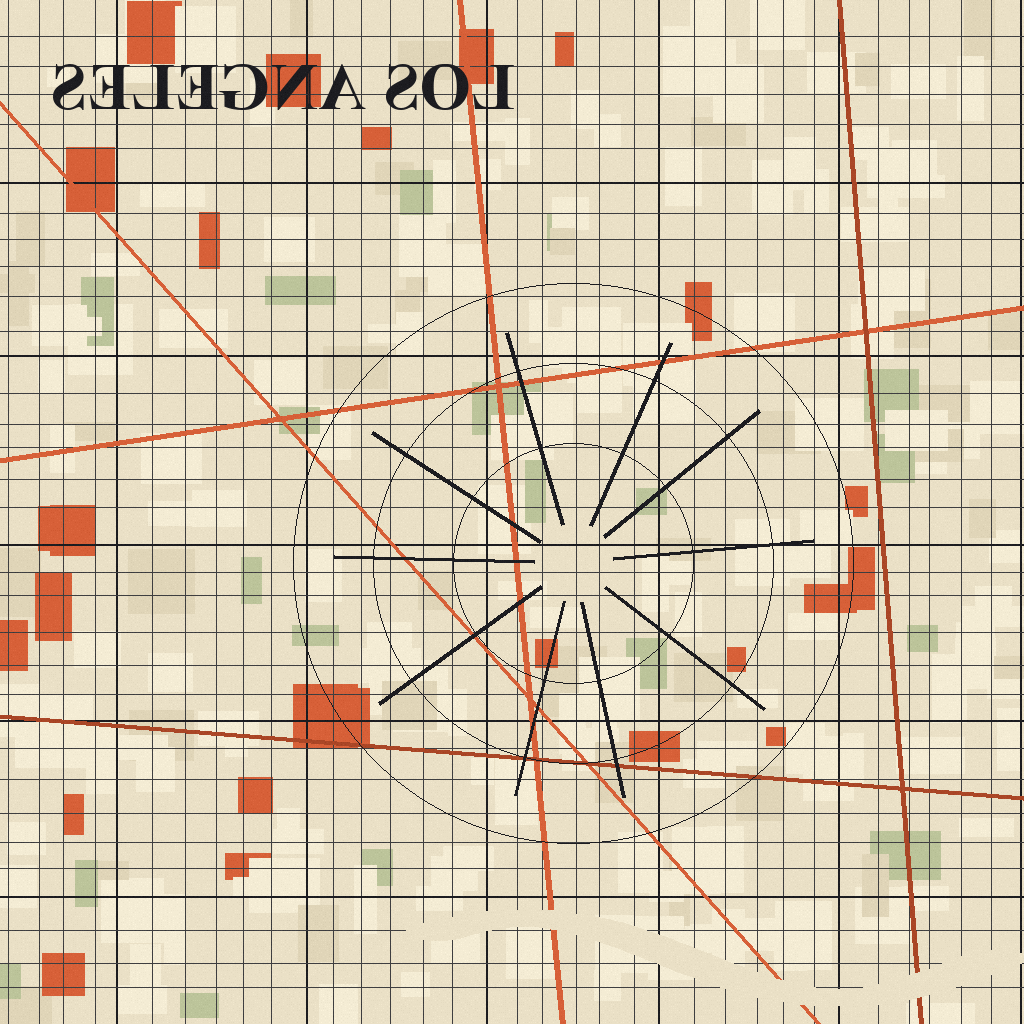
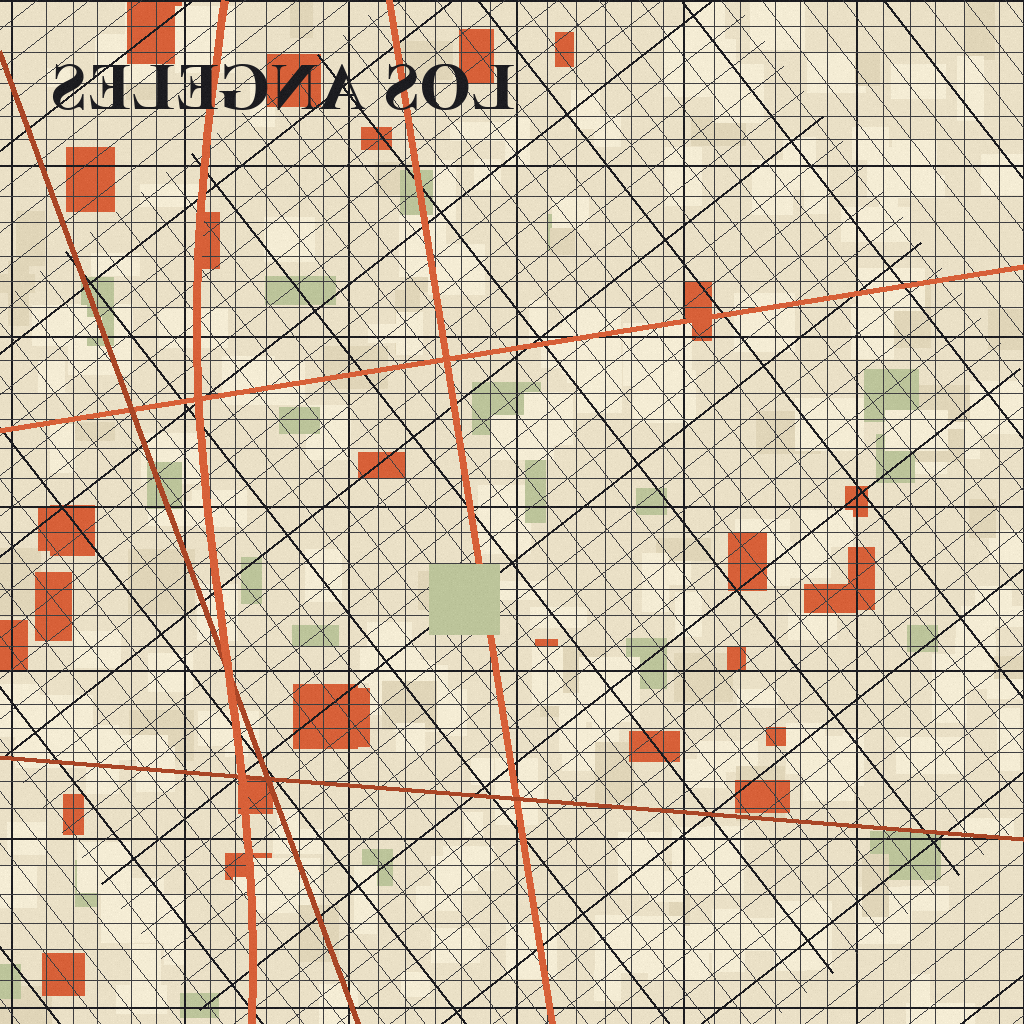
Art frame: KC downtown (large), LA downtown (medium), Manhattan (small)

Changed region(s): [[0.0, 0.0, 1.0, 1.0]]

diff --git a/scripts/_gen_city_map_textures.py b/scripts/_gen_city_map_textures.py
@@ -139,31 +139,58 @@ def draw_new_york(seed=42):
 
 
 def draw_los_angeles(seed=37):
+    """Downtown LA — the historic plat is rotated ~38° NW from true north.
+    Two grids meeting: the rotated downtown grid + the conventional N/S grid
+    of the rest of the city. 110 and 101 freeways frame downtown."""
     random.seed(seed)
     img = Image.new("RGB", (W, H), BG)
     d = ImageDraw.Draw(img)
-    fill_blocks(d, density=0.40)
-    # LA's irregular grid + freeways
-    grid_streets(d, spacing=30, jitter=6)
-    # Major freeways (101, 110, 5, 405, 10) sweeping through
-    cx, cy = W // 2, H // 2 + 60
-    # 101 (Hollywood) east-west diagonal
-    d.line([(0, H * 0.30), (W, H * 0.45)], fill=ORANGE, width=6)
-    # 110 (Harbor) north-south through center
-    d.line([(W * 0.55, 0), (W * 0.45, H)], fill=ORANGE, width=6)
-    # 5 (Golden State) slant from upper-right to lower-left
-    d.line([(W, H * 0.10), (W * 0.20, H)], fill=ORANGE, width=5)
-    # 405 (San Diego) far west
-    d.line([(W * 0.18, 0), (W * 0.10, H)], fill=ORANGE_DK, width=5)
-    # 10 (Santa Monica) east-west lower
-    d.line([(0, H * 0.78), (W, H * 0.70)], fill=ORANGE_DK, width=5)
-    # Ring road + inner radial (like a downtown grid centered)
-    radial_avenues(d, cx=int(W * 0.44), cy=int(H * 0.55), count=10, r_min=40, r_max=240, color=DARK)
-    ring_roads(d, int(W * 0.44), int(H * 0.55), radii=[120, 200, 280], color=DARK, width=1)
-    # Beach/Pacific on the bottom-left curve
-    for x in range(0, int(W * 0.55), 6):
-        y = int(H - 70 + 40 * math.sin(x * 0.01))
-        d.ellipse([x - 4, y - 4, x + 60, y + 12], fill=BG)
+    fill_blocks(d, density=0.42)
+    # Conventional N/S grid (background, lighter)
+    grid_streets(d, spacing=28, jitter=4)
+    # Rotated downtown grid — overlay on top of background
+    cx, cy = int(W * 0.50), int(H * 0.55)
+    angle = math.radians(38)
+    cos_a, sin_a = math.cos(angle), math.sin(angle)
+    R = 520
+    spacing = 32
+    for i in range(-30, 31):
+        # parallel lines along one axis of rotated grid
+        d_off = i * spacing
+        x1 = cx + d_off * cos_a - R * sin_a
+        y1 = cy + d_off * sin_a + R * cos_a
+        x2 = cx + d_off * cos_a + R * sin_a
+        y2 = cy + d_off * sin_a - R * cos_a
+        emph = (i % 5 == 0)
+        d.line([(x1, y1), (x2, y2)],
+               fill=DARK if emph else GREY,
+               width=2 if emph else 1)
+        # perpendicular axis
+        x1 = cx - R * cos_a - d_off * sin_a
+        y1 = cy - R * sin_a + d_off * cos_a
+        x2 = cx + R * cos_a - d_off * sin_a
+        y2 = cy + R * sin_a + d_off * cos_a
+        d.line([(x1, y1), (x2, y2)],
+               fill=DARK if emph else GREY,
+               width=2 if emph else 1)
+    # 110 freeway (Harbor) — north-south through downtown
+    d.line([(W * 0.62, 0), (W * 0.46, H)], fill=ORANGE, width=7)
+    # 101 freeway (Hollywood) — sweeping east-west through downtown
+    d.line([(0, H * 0.26), (W, H * 0.42)], fill=ORANGE, width=6)
+    # 10 (Santa Monica) — south of downtown
+    d.line([(0, H * 0.82), (W, H * 0.74)], fill=ORANGE_DK, width=5)
+    # 5 freeway slanting through east side
+    d.line([(W, H * 0.05), (W * 0.65, H)], fill=ORANGE_DK, width=5)
+    # LA River curving through east
+    pts = []
+    for t in (i / 60 for i in range(61)):
+        x = int(W * 0.78 + 28 * math.sin(t * 5))
+        y = int(t * H)
+        pts.append((x, y))
+    river_curve(d, pts, color=ORANGE, width=8)
+    # Pershing Square (small park) in downtown core
+    px = int(cx + 60 * cos_a); py = int(cy + 60 * sin_a)
+    d.rectangle([px - 35, py - 35, px + 35, py + 35], fill=BLOCK_PARK)
     label(d, "LOS ANGELES", font_size=66, position=(W - 50, 50))
     add_grain(img)
     return img

diff --git a/scripts/render_mount_objects_v2.py b/scripts/render_mount_objects_v2.py
@@ -293,18 +293,18 @@ def compose_art_frame_trio(glb_path):
     tex_kc    = os.path.join(here, "city_kansas_city.png")
     tex_la    = os.path.join(here, "city_los_angeles.png")
 
-    # Large — New York (rear-right, dominant)
+    # Large — Kansas City downtown (rear-right, dominant)
     m_lg = import_glb_at(base_glb, target_height=2.2, rot_xyz=(0, 0, 0),
                          z_floor=0.0, x_offset=0.45, y_offset=0.40)
-    swap_print_texture(m_lg, tex_ny)
-    # Medium — Kansas City (left, slightly forward)
+    swap_print_texture(m_lg, tex_kc)
+    # Medium — Los Angeles downtown (left, slightly forward)
     m_md = import_glb_at(base_glb, target_height=1.6, rot_xyz=(0, 0, math.radians(8)),
                          z_floor=0.0, x_offset=-0.65, y_offset=-0.10)
-    swap_print_texture(m_md, tex_kc)
-    # Small — Los Angeles (right-front, leaning more)
+    swap_print_texture(m_md, tex_la)
+    # Small — Manhattan (right-front, leaning more)
     m_sm = import_glb_at(base_glb, target_height=1.05, rot_xyz=(0, 0, math.radians(-6)),
                          z_floor=0.0, x_offset=0.95, y_offset=-0.45)
-    swap_print_texture(m_sm, tex_la)
+    swap_print_texture(m_sm, tex_ny)
 
 
 def render_one(key):
